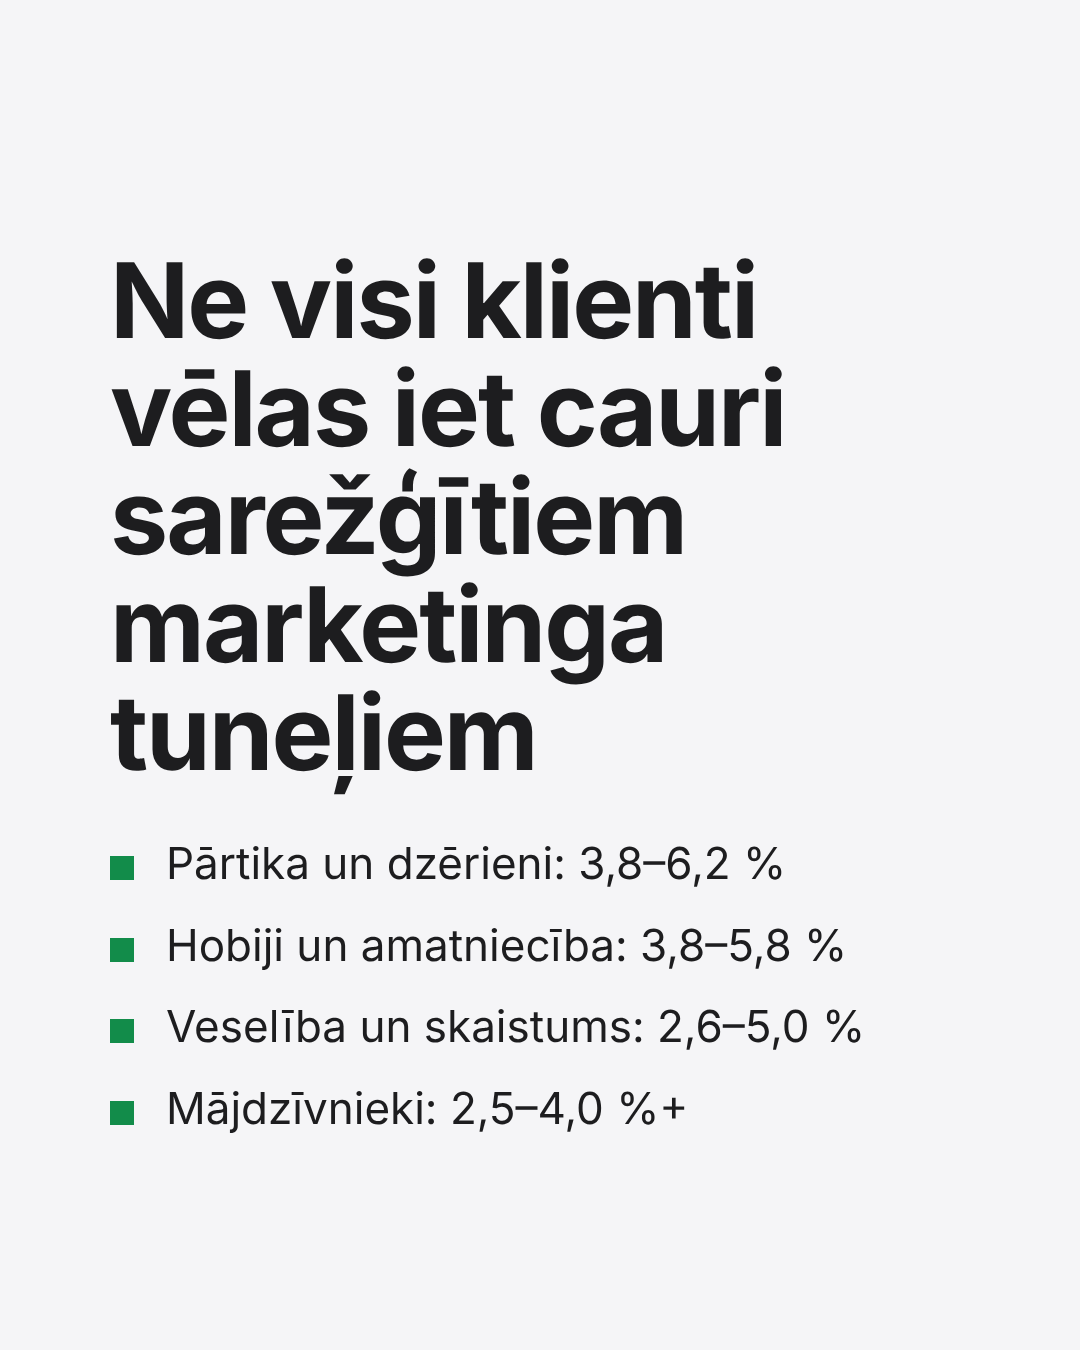
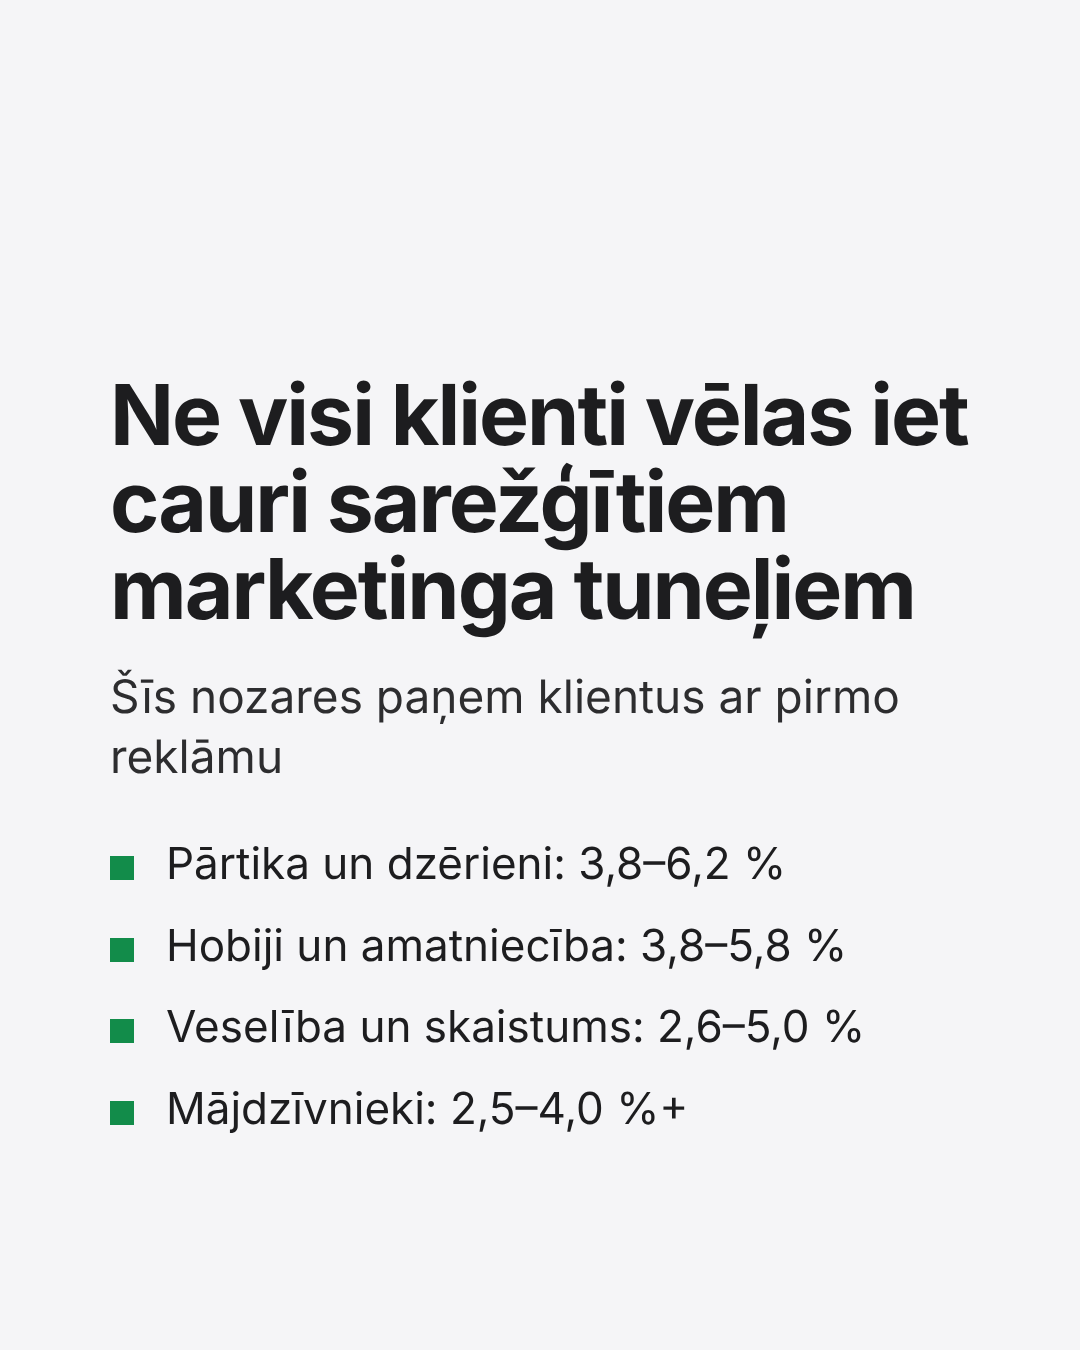
Claim slide: smaller headline, subhead hierarchy level
Claude-Session: https://claude.ai/code/session_01BfJAaEZY2EfD7nu2Y1Q1pB

Changed region(s): [[0.0917, 0.1867, 0.9167, 0.5911]]

diff --git a/brand/zimols/render.js b/brand/zimols/render.js
@@ -52,7 +52,7 @@ function slide(s) {
   if (s.type === 'list') {
     return `<div class="s bg-${s.bg || 'paper'}"><div class="pad">
       ${s.eyebrow ? `<div class="eyebrow">${s.eyebrow}</div>` : ''}
-      <div class="display">${s.headline}</div>
+      <div class="display" style="font-size:${s.headlineSize || 104}px">${s.headline}</div>
       ${s.sub ? (s.subStyle === 'pill' ? `<div><span class="pill">${s.sub}</span></div>` : `<div class="sub">${s.sub}</div>`) : ''}
       <ul class="list">${s.items.map(i => `<li>${i}</li>`).join('')}</ul>
       ${s.footer ? `<div class="footer">${s.footer}</div>` : ''}</div></div>`;
